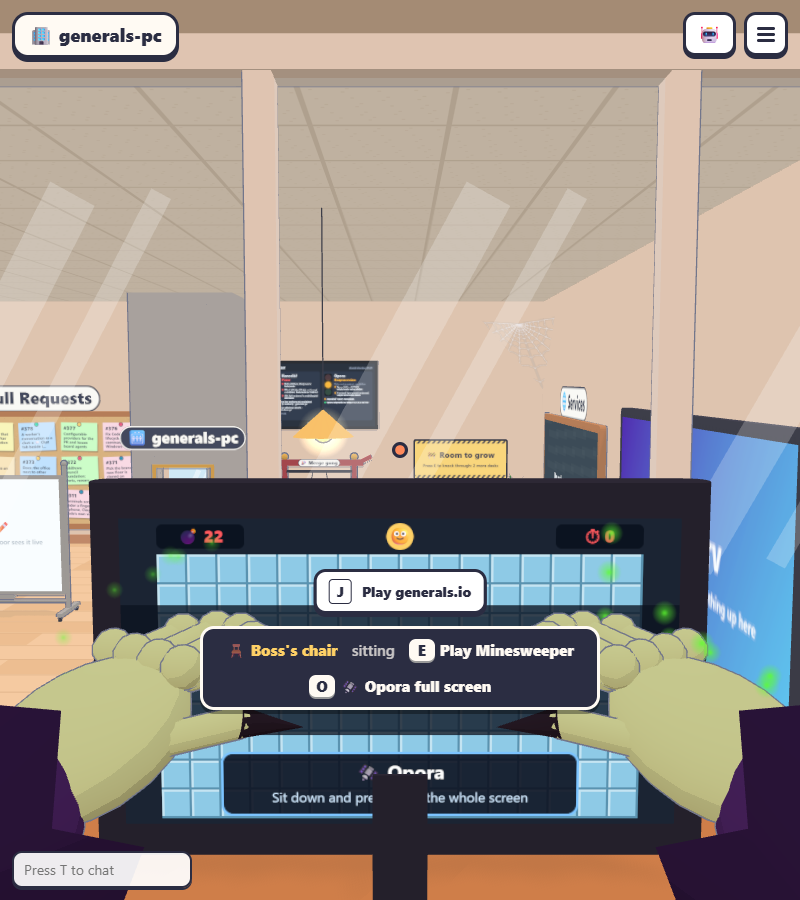
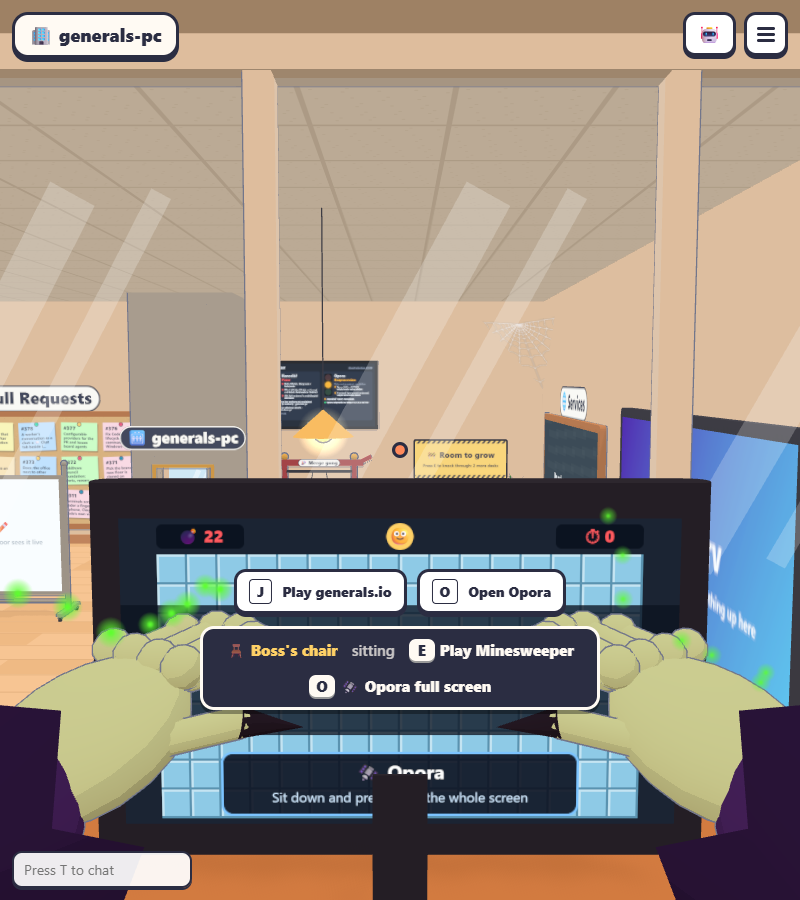
feat: let visitors share access to the Boss PC

Changed region(s): [[0.0, 0.5911, 0.7188, 0.7156], [0.75, 0.56, 0.9062, 0.7467], [0.9375, 0.7467, 1.0, 0.7778]]

diff --git a/src/client/features/generals/index.ts b/src/client/features/generals/index.ts
@@ -3,14 +3,21 @@ import { $, h, modalOpen } from '../../ui/dom';
 import { openGenerals } from './ui';
 
 /** The boss's existing PC gets an online game without taking over its other apps. */
-export function installGenerals(ctx: Ctx) {
-  const seated = () => ctx.player.seat?.seatId === 'boss-chair';
-  const launcher = h('button.btn.generals-launch.hidden', { type: 'button', onclick: () => openGenerals() },
-    h('kbd', {}, 'J'), h('span', {}, 'Play generals.io'));
+export function installGenerals(ctx: Ctx, deps: { openWork(): void }) {
+  const accessible = () => {
+    const chair = ctx.plan().seatingById.get('boss-chair');
+    const p = ctx.player.pos;
+    return !!chair && Math.abs(p.y - chair.y) < 0.8 && Math.hypot(p.x - chair.x, p.z - chair.z) <= 3;
+  };
+  const launcher = h('div.boss-pc-launcher.hidden', { role: 'group', 'aria-label': 'Boss PC — personal apps' },
+    h('button.btn.generals-launch', { type: 'button', onclick: () => { if (accessible()) openGenerals(); } },
+      h('kbd', {}, 'J'), h('span', {}, 'Play generals.io')),
+    h('button.btn.boss-pc-work', { type: 'button', onclick: () => { if (accessible()) deps.openWork(); } },
+      h('kbd', {}, 'O'), h('span', {}, 'Open Opora')));
   const hint = $('hint');
   document.body.append(launcher);
   ctx.ticks.add('hud', () => {
-    const visible = seated() && !modalOpen();
+    const visible = accessible() && !modalOpen();
     launcher.classList.toggle('hidden', !visible);
     if (!visible) return;
     // The hint wraps on small windows and moves above the mobile controls.
@@ -18,5 +25,13 @@ export function installGenerals(ctx: Ctx) {
     const offset = `${Math.ceil(bottom)}px`;
     if (launcher.style.bottom !== offset) launcher.style.bottom = offset;
   });
-  ctx.keys.bind({ code: 'KeyJ', when: seated, repeat: false, preventDefault: true, run: () => { openGenerals(); } });
+  ctx.keys.bind({ code: 'KeyJ', when: accessible, repeat: false, preventDefault: true, run: () => { openGenerals(); } });
+  // O belongs to the nearby PC even when another visitor has its chair.
+  // Outside this area, let the usual desk interaction keep the key.
+  ctx.keys.add('activity', e => {
+    if (e.code !== 'KeyO' || !accessible()) return false;
+    e.preventDefault();
+    if (!e.repeat) deps.openWork();
+    return true;
+  });
 }

diff --git a/src/client/ui/help.ts b/src/client/ui/help.ts
@@ -4,7 +4,7 @@
 import { IS_MAC } from './termkeys';
 
 export const HELP_ROWS: readonly (readonly [string, string])[] = [
-  ['J', 'In the boss chair: play generals.io online on the PC. Full screen expands the game; the top-right close button returns to the office.'],
+  ['J', 'Near the Boss PC (no seat required): J plays generals.io; O opens Opora. Several visitors can use their own windows at once. Full screen expands the game; the top-right close button returns to the office.'],
   ['📚 Harness', 'F8 anywhere, or E at the shelf opposite Docs: resources and Global → Repository → Task assignments; inspect the resolved handoff before dispatch'],
   ['Pro tebe', 'In Boss Office upstairs, E at the board inside the north glass opens decisions and questions, with exact Opora card links and worker terminals. System repairs are separate; nothing is automatically approved.'],
   ['Čistá linie', 'In Boss Office upstairs, E at the board over the south window: the GitHub-style graph of main and its branches, the merge queue, the health of the line and the rules. Sloučit merges only the green PR at the head of the queue; Uklidit deletes only the confirmed list of merged branches and orphaned worktrees.'],

diff --git a/src/client/features/generals/ui.css b/src/client/features/generals/ui.css
@@ -1,5 +1,6 @@
-.generals-launch { position: fixed; bottom: 110px; left: 50%; transform: translateX(-50%); z-index: 20; display: inline-flex; align-items: center; gap: 10px; max-width: calc(100vw - 24px); white-space: nowrap; }
-.generals-launch kbd { flex: none; font: inherit; padding: 2px 7px; border: 1px solid currentColor; border-radius: 4px; }
+.boss-pc-launcher { position: fixed; bottom: 110px; left: 50%; transform: translateX(-50%); z-index: 20; display: flex; flex-wrap: wrap; justify-content: center; gap: 10px; width: max-content; max-width: calc(100vw - 24px); }
+.boss-pc-launcher .btn { display: inline-flex; align-items: center; gap: 10px; white-space: nowrap; }
+.boss-pc-launcher kbd { flex: none; font: inherit; padding: 2px 7px; border: 1px solid currentColor; border-radius: 4px; }
 .modal.generals { width: min(1200px, 96vw); max-width: 96vw; height: 88dvh; max-height: 96dvh; display: flex; flex-direction: column; overflow: hidden; background: #222; color: #fff; }
 .generals header { flex-shrink: 0; display: flex; align-items: center; gap: 12px; padding: 12px; flex-wrap: wrap; color: #282b40; }
 .generals header h2 { flex: 1; margin: 0; font-size: 1.2rem; }

diff --git a/src/client/main.ts b/src/client/main.ts
@@ -187,7 +187,7 @@ installGong(ctx, { burstOver: parts.views.burstOver, workerViews: parts.views.wo
 installStatusWall(ctx);
 installBossAttention(ctx, { answerWorker: parts.waiting.answerWorker });
 installCleanLine(ctx);
-installGenerals(ctx);
+installGenerals(ctx, { openWork: opora.openFull });
 
 parts.hintbar = installHintBar(ctx, core, parts);
 parts.emotes = installEmotes(ctx, { personOf });

diff --git a/docs/features.md b/docs/features.md
@@ -81,7 +81,7 @@ Everything in the office, room by room. Back to the [README](../README.md).
 
 ### generals.io on the Boss PC
 
-Sit in the Boss Office chair upstairs with **E**, then press **J** or click **Play generals.io**. The real https://generals.io/ website opens in a game window; click inside it for its keyboard controls. **Full screen** expands that same game without reloading it. On browsers that deny fullscreen, it expands within the office tab instead. **O** still opens Opora and **E** still plays Minesweeper.
+Walk within three metres of the Boss Office chair on the upstairs floor, then press **J** or click **Play generals.io**. Sitting is optional: the PC remains available when another visitor has the chair. **O** or **Open Opora** opens the existing Opora workstation for each visitor. The real https://generals.io/ website opens in a game window; click inside it for its keyboard controls. **Full screen** expands that same game without reloading it. On browsers that deny fullscreen, it expands within the office tab instead. **O** opens Opora and **E** still plays Minesweeper from the chair. Each visitor has an independent browser window and game account; closing one does not affect other visitors. For a shared generals.io match, join the same custom room within the game. Opora keeps its existing project permissions and collaboration behavior; this change does not share a login, mouse or keyboard. Ad hiding must be enabled separately in each browser.
 
 The top-right **✕** closes the game and restores office mouse-look. **Esc** does the same while focus is on the office toolbar; exiting browser fullscreen also closes the game. While focus is inside the embedded website in windowed mode, Esc belongs to generals.io: the office cannot intercept keys across origins. Use **✕** there. Closing unloads the game and can leave an online match; it does not pause the online server.
 
@@ -103,3 +103,5 @@ Download **Hide ad containers (userscript)** from the game window footer, or use
 The script targets the game's verified queue/replay advertising containers and Google Publisher Tag slots. It leaves game controls, account status and supporter checks alone, makes no network requests and covers dynamically inserted containers. It only hides ads and reclaims their queue padding: it does not stop ad downloads, trackers, or guarantee removal of new ad formats after a site update. It has no effect until installed in your browser. The office itself still cannot style the cross-origin frame.
 
 Validation: `node tests/generals-userscript.browser.mjs` checks a separate-origin iframe with clearly labeled ad-slot fixtures, late insertion, game controls and unrelated origins. It also loads the real generals.io page and injects the exact userscript to check compatibility without creating an account or joining a match. Userscript-manager installation is a separate manual browser step.
+
+Concurrent-access proof: node tests/generals-multi.browser.mjs runs two independent browser contexts against an isolated preview. One occupies the chair; the other remains standing. It checks concurrent games, independent closing, work/game and work/work (disconnected Opora fixture), and blocks access from downstairs. No real multiplayer match or concurrent document edit is performed.

diff --git a/README.md b/README.md
@@ -39,7 +39,7 @@ curl -fsSL https://raw.githubusercontent.com/AgentSystemLabs/agent-office/main/i
 - **Workers at desks.** Walk up to an empty desk, press **E**, and pick Claude Code, Codex, OpenCode, Grok, Muse, DeepSeek Harness, Pi or Cursor, each with its model and reasoning effort. The agent's live terminal shows on its laptop, and anyone can open it and type.
 - **Talk instead of typing.** Hold **Ctrl+Space** (or the **🎤**) in a worker's terminal or a prompt box and say what you want: it's typed in for you to send. Your browser does the listening, so there's nothing to install.
 - **You can't miss who needs you.** A worker that stops to ask you something lights a red beacon over its desk, puts a banner on your screen saying who and what for, and sounds an alarm. One that has finished jumps up and down and dings. Press **N** to go straight to whoever is waiting.
-- **generals.io on the Boss PC.** Sit in the boss chair upstairs and press **J** (or click **Play generals.io**) to play the live online game. The launcher stays above the PC hints, with a separate **J** badge and no WASD reminder. **Full screen** enlarges it; the top-right **✕** returns to mouse-look. Internet access is required. The game footer offers an optional userscript to hide ad containers after installation in your browser. See [controls and iframe limitations](docs/features.md#generalsio-on-the-boss-pc).
+- **generals.io on the Boss PC.** Walk up to the Boss PC upstairs and press **J** (or click **Play generals.io**) to play the live online game; **O** opens Opora. Multiple visitors can use their own windows simultaneously, even with the chair occupied. The launcher stays above the PC hints, with a separate **J** badge and no WASD reminder. **Full screen** enlarges it; the top-right **✕** returns to mouse-look. Internet access is required. The game footer offers an optional userscript to hide ad containers after installation in your browser. See [controls and iframe limitations](docs/features.md#generalsio-on-the-boss-pc).
 - **From your phone, too.** `/lite` is the office in 2D: every worker and what it's waiting on, its terminal with the keys a phone keyboard lacks, and the boards. The 3D office offers it on a phone or a slow computer.
 - **GitHub on the walls.** Issues and pull requests hang on cork boards. Hand an issue to a worker, queue tasks, give a worker its own git worktree and open its PR with one key (if one gets deleted behind the office's back, the worker waits at its desk until you rebuild it). One task can span several projects: the worker gets a worktree of each, and a PR in each that links the others.
 - **Agents that manage agents.** Every worker can list, hire, message and send home the others, through an `agent-office` MCP server (Claude Code, Codex, OpenCode) or the `office-workers` command. Ask one to "send everyone whose PR merged home" and it does, deleting their worktrees and branches unless they hold unpushed work. A worker that opens its pull request itself (`gh pr create`) shows it at its desk, and one the office missed can be told which is its own (`office-workers pr`).
